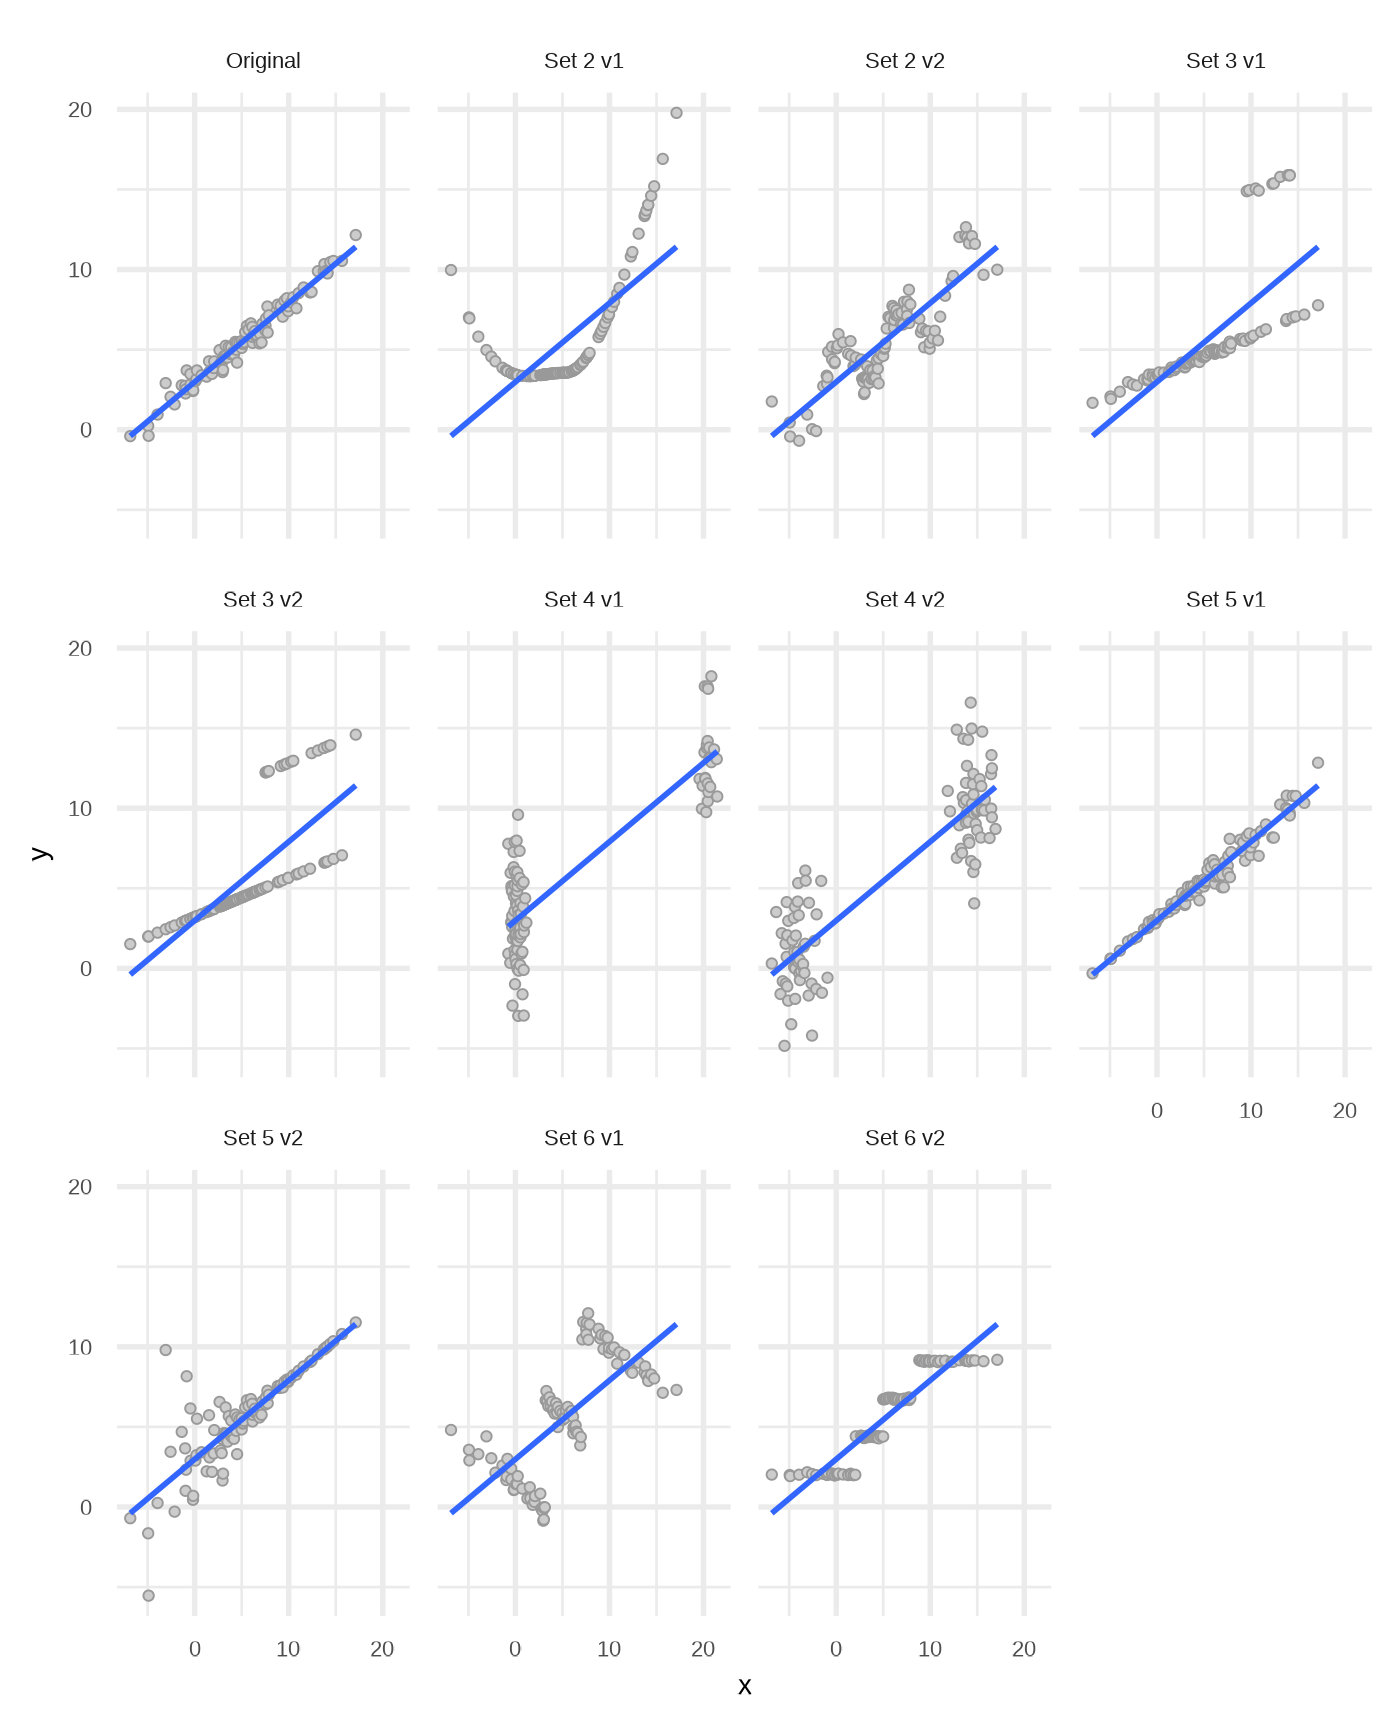
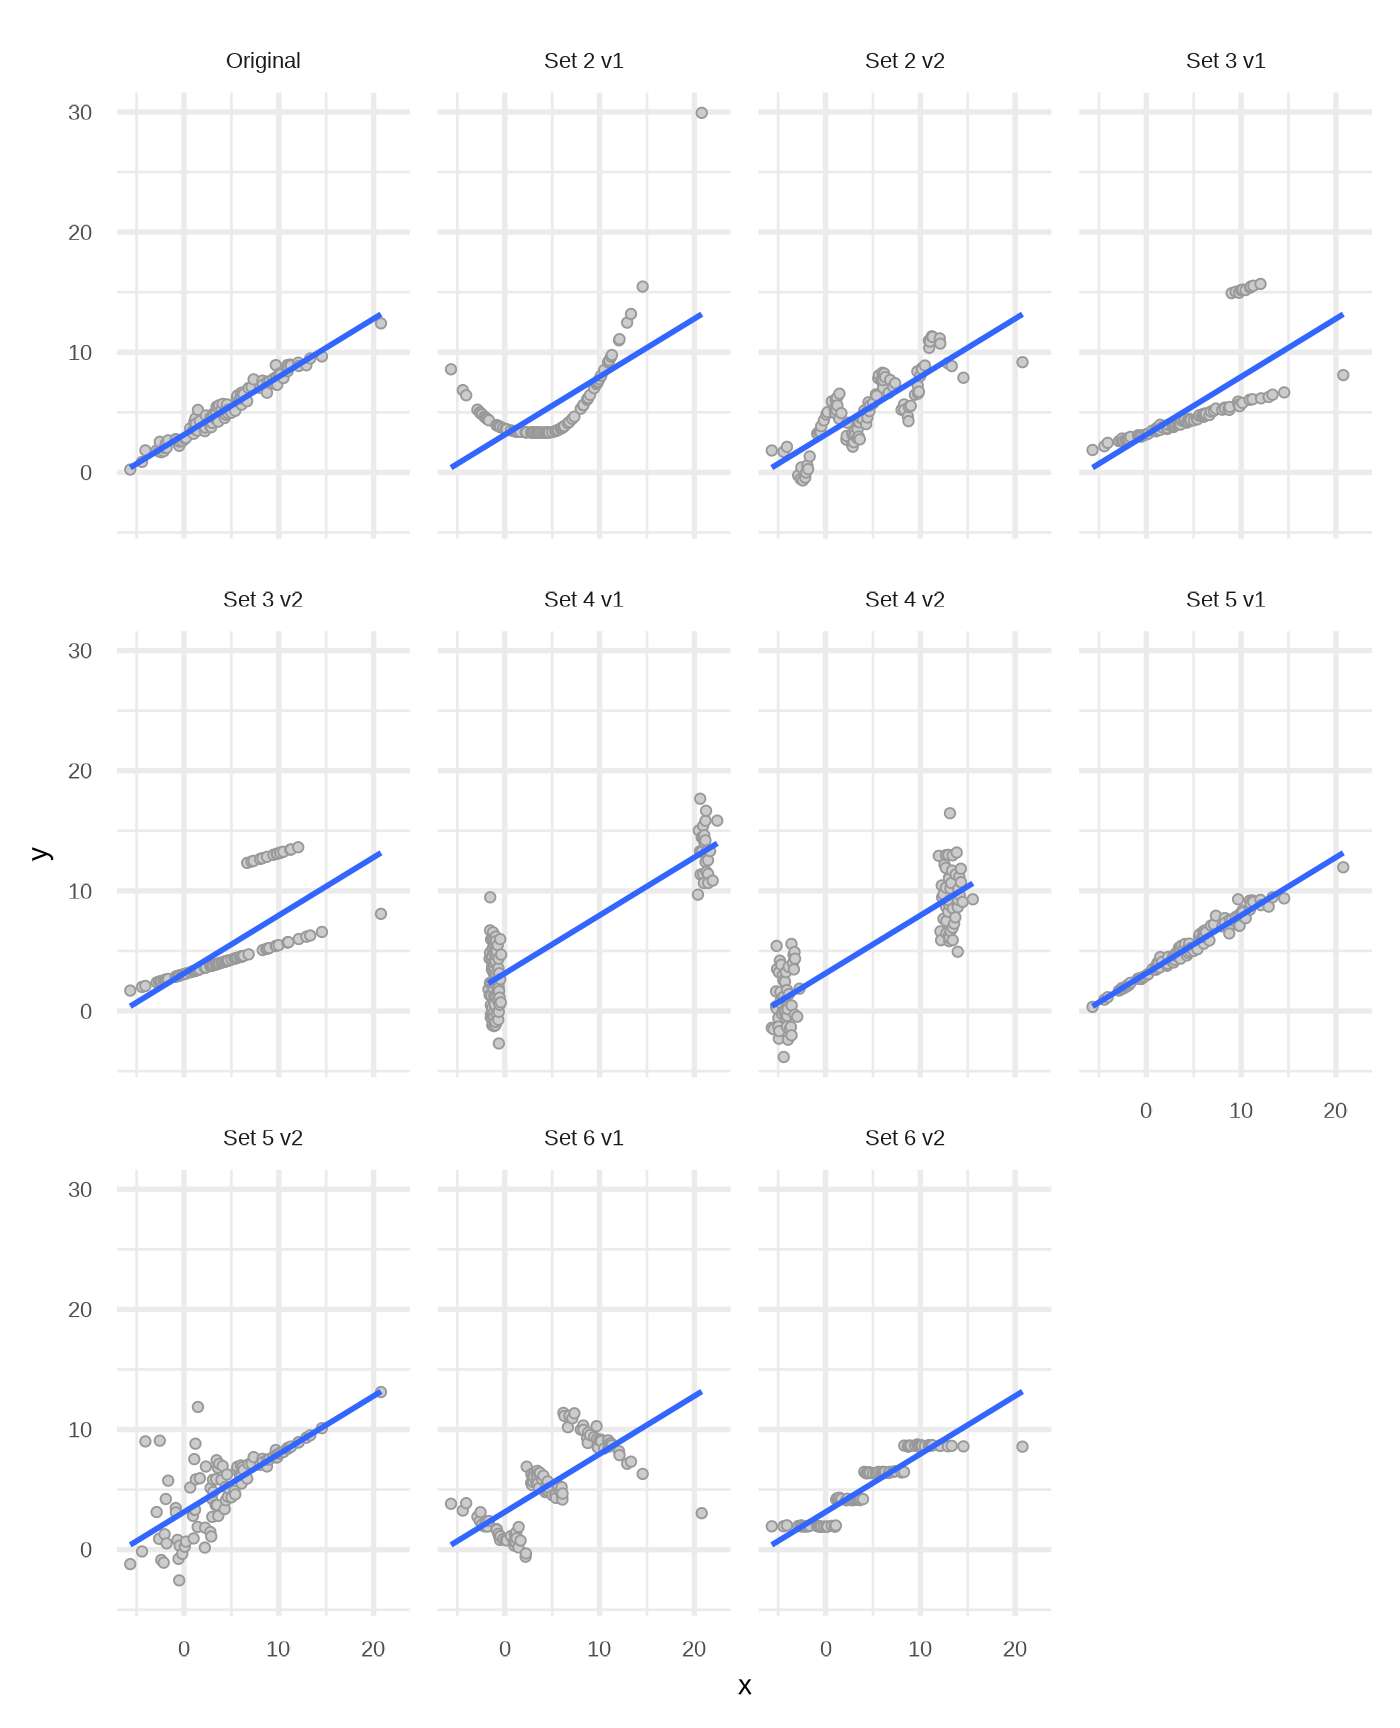
Built site for klassets: 0.0.0.9000@3eb3d1b

diff --git a/articles/Quasi-Anscombe-data-sets.html b/articles/Quasi-Anscombe-data-sets.html
@@ -216,16 +216,16 @@
 <span class="co">#&gt; <span style="color: #949494;"># A tibble: 22 × 7</span></span>
 <span class="co">#&gt;    set      term        estimate std.error statistic  p.value sig  </span>
 <span class="co">#&gt;    <span style="color: #949494; font-style: italic;">&lt;chr&gt;</span>    <span style="color: #949494; font-style: italic;">&lt;chr&gt;</span>          <span style="color: #949494; font-style: italic;">&lt;dbl&gt;</span>     <span style="color: #949494; font-style: italic;">&lt;dbl&gt;</span>     <span style="color: #949494; font-style: italic;">&lt;dbl&gt;</span>    <span style="color: #949494; font-style: italic;">&lt;dbl&gt;</span> <span style="color: #949494; font-style: italic;">&lt;chr&gt;</span></span>
-<span class="co">#&gt; <span style="color: #BCBCBC;"> 1</span> Original (Intercept)    2.98    0.067<span style="text-decoration: underline;">2</span>      44.4  9.65<span style="color: #949494;">e</span><span style="color: #BB0000;">-67</span> ***  </span>
-<span class="co">#&gt; <span style="color: #BCBCBC;"> 2</span> Original x              0.492   0.009<span style="text-decoration: underline;">25</span>     53.2  4.05<span style="color: #949494;">e</span><span style="color: #BB0000;">-74</span> ***  </span>
-<span class="co">#&gt; <span style="color: #BCBCBC;"> 3</span> Set 2 v1 (Intercept)    2.98    0.379        7.88 4.51<span style="color: #949494;">e</span><span style="color: #BB0000;">-12</span> ***  </span>
-<span class="co">#&gt; <span style="color: #BCBCBC;"> 4</span> Set 2 v1 x              0.492   0.052<span style="text-decoration: underline;">1</span>       9.44 1.96<span style="color: #949494;">e</span><span style="color: #BB0000;">-15</span> ***  </span>
-<span class="co">#&gt; <span style="color: #BCBCBC;"> 5</span> Set 2 v2 (Intercept)    2.98    0.219       13.6  2.35<span style="color: #949494;">e</span><span style="color: #BB0000;">-24</span> ***  </span>
-<span class="co">#&gt; <span style="color: #BCBCBC;"> 6</span> Set 2 v2 x              0.492   0.030<span style="text-decoration: underline;">2</span>      16.3  1.05<span style="color: #949494;">e</span><span style="color: #BB0000;">-29</span> ***  </span>
-<span class="co">#&gt; <span style="color: #BCBCBC;"> 7</span> Set 3 v1 (Intercept)    2.98    0.355        8.41 3.41<span style="color: #949494;">e</span><span style="color: #BB0000;">-13</span> ***  </span>
-<span class="co">#&gt; <span style="color: #BCBCBC;"> 8</span> Set 3 v1 x              0.492   0.048<span style="text-decoration: underline;">9</span>      10.1  8.57<span style="color: #949494;">e</span><span style="color: #BB0000;">-17</span> ***  </span>
-<span class="co">#&gt; <span style="color: #BCBCBC;"> 9</span> Set 3 v2 (Intercept)    2.98    0.329        9.08 1.20<span style="color: #949494;">e</span><span style="color: #BB0000;">-14</span> ***  </span>
-<span class="co">#&gt; <span style="color: #BCBCBC;">10</span> Set 3 v2 x              0.492   0.045<span style="text-decoration: underline;">3</span>      10.9  1.54<span style="color: #949494;">e</span><span style="color: #BB0000;">-18</span> ***  </span>
+<span class="co">#&gt; <span style="color: #BCBCBC;"> 1</span> Original (Intercept)    3.13    0.062<span style="text-decoration: underline;">9</span>      49.8  2.00<span style="color: #949494;">e</span><span style="color: #BB0000;">-71</span> ***  </span>
+<span class="co">#&gt; <span style="color: #BCBCBC;"> 2</span> Original x              0.483   0.009<span style="text-decoration: underline;">55</span>     50.6  4.91<span style="color: #949494;">e</span><span style="color: #BB0000;">-72</span> ***  </span>
+<span class="co">#&gt; <span style="color: #BCBCBC;"> 3</span> Set 2 v1 (Intercept)    3.13    0.367        8.55 1.70<span style="color: #949494;">e</span><span style="color: #BB0000;">-13</span> ***  </span>
+<span class="co">#&gt; <span style="color: #BCBCBC;"> 4</span> Set 2 v1 x              0.483   0.055<span style="text-decoration: underline;">7</span>       8.68 8.93<span style="color: #949494;">e</span><span style="color: #BB0000;">-14</span> ***  </span>
+<span class="co">#&gt; <span style="color: #BCBCBC;"> 5</span> Set 2 v2 (Intercept)    3.13    0.226       13.9  6.81<span style="color: #949494;">e</span><span style="color: #BB0000;">-25</span> ***  </span>
+<span class="co">#&gt; <span style="color: #BCBCBC;"> 6</span> Set 2 v2 x              0.483   0.034<span style="text-decoration: underline;">3</span>      14.1  2.57<span style="color: #949494;">e</span><span style="color: #BB0000;">-25</span> ***  </span>
+<span class="co">#&gt; <span style="color: #BCBCBC;"> 7</span> Set 3 v1 (Intercept)    3.13    0.358        8.75 6.32<span style="color: #949494;">e</span><span style="color: #BB0000;">-14</span> ***  </span>
+<span class="co">#&gt; <span style="color: #BCBCBC;"> 8</span> Set 3 v1 x              0.483   0.054<span style="text-decoration: underline;">4</span>       8.88 3.29<span style="color: #949494;">e</span><span style="color: #BB0000;">-14</span> ***  </span>
+<span class="co">#&gt; <span style="color: #BCBCBC;"> 9</span> Set 3 v2 (Intercept)    3.13    0.342        9.17 7.53<span style="color: #949494;">e</span><span style="color: #BB0000;">-15</span> ***  </span>
+<span class="co">#&gt; <span style="color: #BCBCBC;">10</span> Set 3 v2 x              0.483   0.051<span style="text-decoration: underline;">9</span>       9.31 3.78<span style="color: #949494;">e</span><span style="color: #BB0000;">-15</span> ***  </span>
 <span class="co">#&gt; <span style="color: #949494;"># … with 12 more rows</span></span>
 
 <span class="va">dfcoef</span> |&gt; 
@@ -234,17 +234,17 @@
 <span class="co">#&gt; <span style="color: #949494;"># A tibble: 11 × 3</span></span>
 <span class="co">#&gt;    set      `(Intercept)`     x</span>
 <span class="co">#&gt;    <span style="color: #949494; font-style: italic;">&lt;chr&gt;</span>            <span style="color: #949494; font-style: italic;">&lt;dbl&gt;</span> <span style="color: #949494; font-style: italic;">&lt;dbl&gt;</span></span>
-<span class="co">#&gt; <span style="color: #BCBCBC;"> 1</span> Original          2.98 0.492</span>
-<span class="co">#&gt; <span style="color: #BCBCBC;"> 2</span> Set 2 v1          2.98 0.492</span>
-<span class="co">#&gt; <span style="color: #BCBCBC;"> 3</span> Set 2 v2          2.98 0.492</span>
-<span class="co">#&gt; <span style="color: #BCBCBC;"> 4</span> Set 3 v1          2.98 0.492</span>
-<span class="co">#&gt; <span style="color: #BCBCBC;"> 5</span> Set 3 v2          2.98 0.492</span>
-<span class="co">#&gt; <span style="color: #BCBCBC;"> 6</span> Set 4 v1          2.98 0.492</span>
-<span class="co">#&gt; <span style="color: #BCBCBC;"> 7</span> Set 4 v2          2.98 0.492</span>
-<span class="co">#&gt; <span style="color: #BCBCBC;"> 8</span> Set 5 v1          2.98 0.492</span>
-<span class="co">#&gt; <span style="color: #BCBCBC;"> 9</span> Set 5 v2          2.98 0.492</span>
-<span class="co">#&gt; <span style="color: #BCBCBC;">10</span> Set 6 v1          2.98 0.492</span>
-<span class="co">#&gt; <span style="color: #BCBCBC;">11</span> Set 6 v2          2.98 0.492</span></code></pre></div>
+<span class="co">#&gt; <span style="color: #BCBCBC;"> 1</span> Original          3.13 0.483</span>
+<span class="co">#&gt; <span style="color: #BCBCBC;"> 2</span> Set 2 v1          3.13 0.483</span>
+<span class="co">#&gt; <span style="color: #BCBCBC;"> 3</span> Set 2 v2          3.13 0.483</span>
+<span class="co">#&gt; <span style="color: #BCBCBC;"> 4</span> Set 3 v1          3.13 0.483</span>
+<span class="co">#&gt; <span style="color: #BCBCBC;"> 5</span> Set 3 v2          3.13 0.483</span>
+<span class="co">#&gt; <span style="color: #BCBCBC;"> 6</span> Set 4 v1          3.13 0.483</span>
+<span class="co">#&gt; <span style="color: #BCBCBC;"> 7</span> Set 4 v2          3.13 0.483</span>
+<span class="co">#&gt; <span style="color: #BCBCBC;"> 8</span> Set 5 v1          3.13 0.483</span>
+<span class="co">#&gt; <span style="color: #BCBCBC;"> 9</span> Set 5 v2          3.13 0.483</span>
+<span class="co">#&gt; <span style="color: #BCBCBC;">10</span> Set 6 v1          3.13 0.483</span>
+<span class="co">#&gt; <span style="color: #BCBCBC;">11</span> Set 6 v2          3.13 0.483</span></code></pre></div>
 </div>
   </main><aside class="col-md-3"><nav id="toc"><h2>On this page</h2>
     </nav></aside>

diff --git a/index.html b/index.html
@@ -72,22 +72,37 @@
 <div class="page-header"><h1 id="klassets">klassets<a class="anchor" aria-label="anchor" href="#klassets"></a>
 </h1></div>
 <!-- badges: start -->
-<p>The goal of klasset is to …</p>
+<p>The <a href="https://jkunst.com/klassets/" class="external-link">klassets</a> package is a collection of functions to simulate data sets to:</p>
+<ul>
+<li>Teach how some Statistics Models and Machine Learning algorithms works.</li>
+<li>Illustrate certain some particular events such as heteroskedasticity or the Simpson’s paradox</li>
+</ul>
+<p><img src="reference/figures/animation_quasi_anscombre.gif" width="100%"></p>
+<p>For example:</p>
+<div class="sourceCode" id="cb1"><pre class="downlit sourceCode r">
+<code class="sourceCode R"><span class="kw"><a href="https://rdrr.io/r/base/library.html" class="external-link">library</a></span><span class="op">(</span><span class="va"><a href="https://jkunst.com/klassets/" class="external-link">klassets</a></span><span class="op">)</span>
+
+<span class="va">df</span> <span class="op">&lt;-</span> <span class="fu"><a href="reference/sim_quasianscombe_set_1.html">sim_quasianscombe_set_1</a></span><span class="op">(</span>n <span class="op">=</span> <span class="fl">500</span>, beta0 <span class="op">=</span> <span class="fl">3</span>, beta1 <span class="op">=</span> <span class="fl">0.5</span><span class="op">)</span>
+
+<span class="fu"><a href="https://rdrr.io/r/graphics/plot.default.html" class="external-link">plot</a></span><span class="op">(</span><span class="va">df</span><span class="op">)</span> <span class="op">+</span>
+  <span class="fu">ggplot2</span><span class="fu">::</span><span class="fu"><a href="https://ggplot2.tidyverse.org/reference/labs.html" class="external-link">labs</a></span><span class="op">(</span>subtitle <span class="op">=</span> <span class="st">"Very similar to the given parameters (3 and 0.5)"</span><span class="op">)</span></code></pre></div>
+<p><img src="reference/figures/README-unnamed-chunk-3-1.png" width="100%"></p>
+<div class="sourceCode" id="cb2"><pre class="downlit sourceCode r">
+<code class="sourceCode R"><span class="kw"><a href="https://rdrr.io/r/base/library.html" class="external-link">library</a></span><span class="op">(</span><span class="va"><a href="https://patchwork.data-imaginist.com" class="external-link">patchwork</a></span><span class="op">)</span>
+
+<span class="va">df2</span> <span class="op">&lt;-</span> <span class="fu"><a href="reference/sim_quasianscombe_set_2.html">sim_quasianscombe_set_2</a></span><span class="op">(</span><span class="va">df</span>, fun <span class="op">=</span> <span class="va">sin</span><span class="op">)</span>
+<span class="va">df6</span> <span class="op">&lt;-</span> <span class="fu"><a href="reference/sim_quasianscombe_set_6.html">sim_quasianscombe_set_6</a></span><span class="op">(</span><span class="va">df</span>, groups <span class="op">=</span> <span class="fl">2</span>, b1_factor <span class="op">=</span> <span class="op">-</span><span class="fl">1</span><span class="op">)</span>
+
+<span class="fu"><a href="https://rdrr.io/r/graphics/plot.default.html" class="external-link">plot</a></span><span class="op">(</span><span class="va">df2</span><span class="op">)</span> <span class="op">+</span> <span class="fu"><a href="https://rdrr.io/r/graphics/plot.default.html" class="external-link">plot</a></span><span class="op">(</span><span class="va">df6</span><span class="op">)</span></code></pre></div>
+<p><img src="reference/figures/README-unnamed-chunk-4-1.png" width="100%"></p>
+<p>More details in the articles section!</p>
 <div class="section level2">
 <h2 id="installation">Installation<a class="anchor" aria-label="anchor" href="#installation"></a>
 </h2>
-<p>You can install the development version of klasset from <a href="https://github.com/" class="external-link">GitHub</a> with:</p>
-<div class="sourceCode" id="cb1"><pre class="downlit sourceCode r">
-<code class="sourceCode R"><span class="co"># install.packages("devtools")</span>
-<span class="fu">devtools</span><span class="fu">::</span><span class="fu">install_github</span><span class="op">(</span><span class="st">"jbkunst/klasset"</span><span class="op">)</span></code></pre></div>
-</div>
-<div class="section level2">
-<h2 id="example">Example<a class="anchor" aria-label="anchor" href="#example"></a>
-</h2>
-<p>This is a basic example which shows you how to solve a common problem:</p>
-<div class="sourceCode" id="cb2"><pre class="downlit sourceCode r">
-<code class="sourceCode R"><span class="kw"><a href="https://rdrr.io/r/base/library.html" class="external-link">library</a></span><span class="op">(</span><span class="va">klasset</span><span class="op">)</span>
-<span class="co">## basic example code</span></code></pre></div>
+<p>You can install the development version of klassets from <a href="https://github.com/" class="external-link">GitHub</a> with:</p>
+<div class="sourceCode" id="cb3"><pre class="downlit sourceCode r">
+<code class="sourceCode R"><span class="co"># install.packages("remotes")</span>
+<span class="fu">remotes</span><span class="fu">::</span><span class="fu">install_github</span><span class="op">(</span><span class="st">"jbkunst/klassets"</span><span class="op">)</span></code></pre></div>
 </div>
 </div>
   </main><aside class="col-md-3"><div class="links">
@@ -124,7 +139,7 @@
 <div class="dev-status">
 <h2 data-toc-skip>Dev status</h2>
 <ul class="list-unstyled">
-<li><a href="https://github.com/jbkunst/klasset/actions" class="external-link"><img src="https://github.com/jbkunst/klasset/workflows/R-CMD-check/badge.svg" alt="R-CMD-check"></a></li>
+<li><a href="https://github.com/jbkunst/klassets/actions" class="external-link"><img src="https://github.com/jbkunst/klassets/workflows/R-CMD-check/badge.svg" alt="R-CMD-check"></a></li>
 </ul>
 </div>
 
